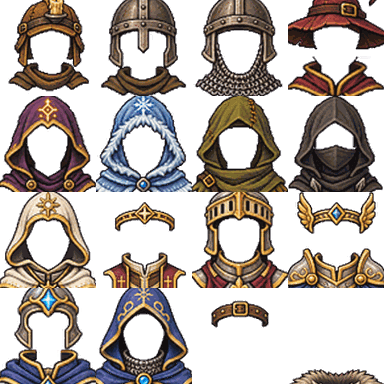
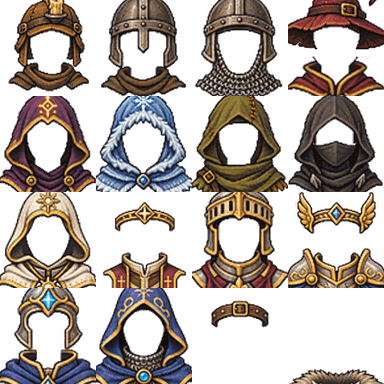
M8.10: hoods lifted so the brim clears the eyes
Claude-Session: https://claude.ai/code/session_01AEHRuyPSDQGVtbtBJLwWks

Changed region(s): [[0.0, 0.25, 1.0, 0.75], [0.25, 0.75, 0.5, 1.0]]

diff --git a/scripts/cut-faces.py b/scripts/cut-faces.py
@@ -57,7 +57,7 @@ OWN = {
     ("hats", 1): (1.32, 0, -10),  # nasal helm
     ("hats", 2): (1.32, 0, -8),  # helmet and coif
     # Hoods and helms wider still, so the ears stay inside (Mike, M8.10).
-    **{("hats", i): (1.32, 0, 4) for i in (4, 5, 6, 7, 8, 13)},
+    **{("hats", i): (1.32, 0, 0) for i in (4, 5, 6, 7, 8, 13)},
     ("hats", 10): (1.38, 0, 1),  # paladin's great helm
     ("hats", 12): (1.4, 0, 0),  # spellblade's half-helm
     ("hats", 15): (1.22, 0, 30),  # fur collar
